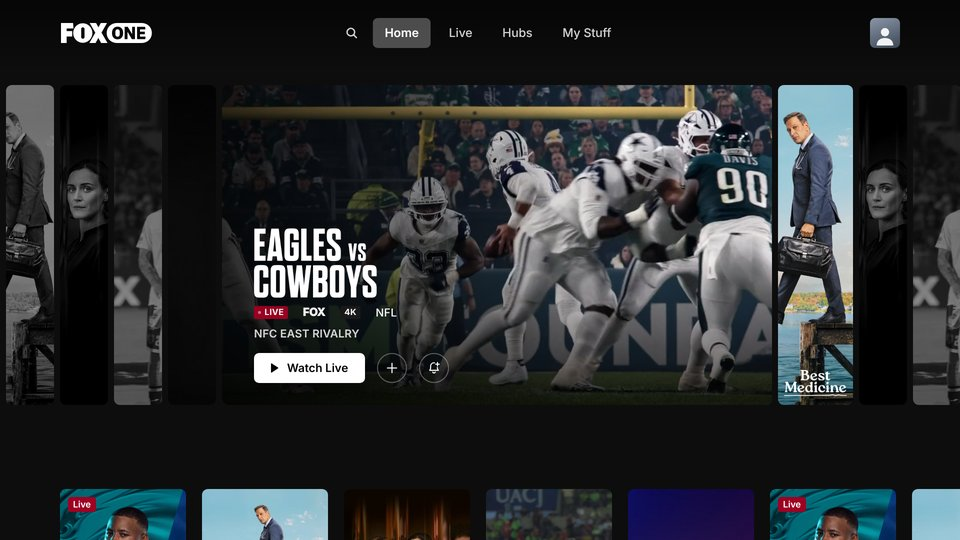
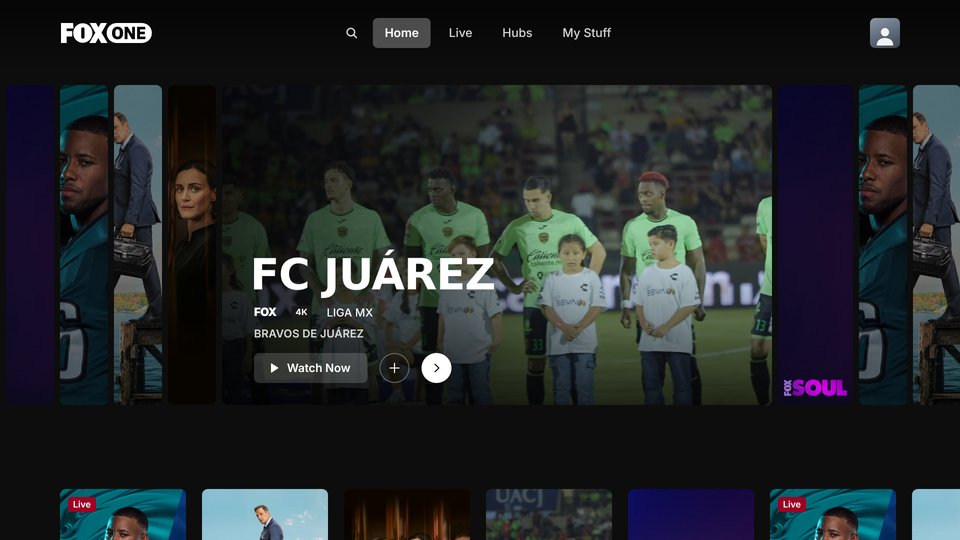
C13: chevron steps through titles with focus kept on it; slits in dimmed colour
The bell is replaced by a › button. OK on it opens the next title while
focus stays on it, so repeated presses scroll the shelf. The button row
now stays in place and only the title, meta and line swap. Side slits
keep full colour and are dimmed instead of greyed out.

Claude-Session: https://claude.ai/code/session_01FWkKVt7uaQAGvCvKhrAVNM

diff --git a/c13-slit-reel.html b/c13-slit-reel.html
@@ -6,7 +6,7 @@
 <link rel="stylesheet" href="shared/base.css">
 <style>
   /* A scrolling bookshelf of slits. The focused title is always open as a wide panel INSIDE the shelf,
-     with grey slits on both sides, so moving between titles is one short accordion step: the open panel
+     with dimmed slits on both sides, so moving between titles is one short accordion step: the open panel
      narrows back into a slit while the next slit widens into the panel and the shelf slides one place.
      It never leaves for full screen. The next title (right of the panel) shows in colour as the peek. */
   .stage { background: #0c0c0c; }
@@ -16,8 +16,8 @@
         transition: left .8s var(--ease-inout), width .8s var(--ease-inout), opacity .6s var(--ease-std); }
   .sl.new { opacity: 0; }
   .sl > img { position: absolute; inset: 0; width: 100%; height: 100%; object-fit: cover; object-position: var(--fx, 50%) 50%;
-              filter: grayscale(1) brightness(.6) contrast(1.06); transition: filter .8s var(--ease-inout); }
-  .sl.next > img, .sl.open > img { filter: none; }
+              filter: brightness(.55); transition: filter .8s var(--ease-inout); }
+  .sl.open > img { filter: none; }
   /* open panel: the title's video / key art fades in on top once it has opened */
   .sl .vid { position: absolute; inset: 0; opacity: 0; transition: opacity .7s var(--ease-std); }
   .sl .vid .art { position: absolute; inset: 0; }
@@ -33,19 +33,22 @@
   .sl.next .badge { opacity: 1; }
 
   /* Lockup sits inside the open panel */
-  .copy { position: absolute; z-index: 20; left: 508px; bottom: 314px; width: 900px; display: flex; flex-direction: column; align-items: flex-start;
+  .copy { position: absolute; z-index: 20; left: 508px; bottom: 400px; width: 900px; display: flex; flex-direction: column; align-items: flex-start;
           opacity: 0; transform: translateY(10px); transition: opacity .6s var(--ease-std), transform .7s var(--ease-out); }
   .copy.is-in { opacity: 1; transform: none; transition-delay: .35s; }
   .copy.out { opacity: 0; transform: none; transition: opacity .35s var(--ease-std); transition-delay: 0s; }
   .copy > * + * { margin-top: 16px; }
   .copy .logo img { max-width: 480px; max-height: 140px; }
-  .copy .ctas { margin-top: 26px !important; }
+  /* The button row stays put while titles change under it, so the chevron can be pressed again and again */
+  .row { position: absolute; z-index: 21; left: 508px; bottom: 314px; display: flex; }
+  .row .btn--primary span { transition: opacity .35s var(--ease-std); }
 </style>
 </head>
 <body>
 <div class="viewport"><div class="stage" id="stage">
   <div class="shelf" id="shelf"></div>
   <div id="copyHost"></div>
+  <div class="row" id="row"></div>
   <div class="grain"></div>
 </div></div>
 
@@ -56,8 +59,8 @@
 <script>
 const K = HeroKit.init({
   title: "C13 · Slit Reel",
-  notes: "A scrolling bookshelf of slits. The focused title is open as a wide panel inside the shelf, with grey slits on both sides; the next title, right of the panel, shows in colour as the peek. → past the last button is one short accordion step: the panel narrows into a slit, the next slit widens into the panel and the shelf slides one place. It never goes full screen and never auto-advances.",
-  extraKeys: [["→ past 🔔", "Next title opens in the shelf"]],
+  notes: "The bell is replaced by a › chevron: OK on it opens the next title and focus stays on it, so repeated OKs scroll quickly through the shelf. A scrolling bookshelf of full-colour slits, dimmed except the open one. The focused title is open as a wide panel inside the shelf, with slits on both sides; the next title's logo shows on the slit right of the panel as the peek. → past the last button is one short accordion step: the panel narrows into a slit, the next slit widens into the panel and the shelf slides one place. It never goes full screen and never auto-advances.",
+  extraKeys: [["OK on ›", "Next title, focus stays on ›"], ["→ past ›", "Next title, focus on Watch"]],
 });
 
 const N = K.data.length;
@@ -65,7 +68,7 @@ const shelf = document.getElementById("shelf"), copyHost = document.getElementBy
 const D = (v) => K.data[((v % N) + N) % N];
 const still = (d) => d.art.kind === "video" ? (d.art.still || d.art.poster) : d.art.src;
 
-/* Shelf geometry (stage px): grey slits 96 wide, the open panel 1100, the next (peek) slit 150 */
+/* Shelf geometry (stage px): dimmed slits 96 wide, the open panel 1100, the next (peek) slit 150 */
 const SW = 96, NW = 150, G = 12, PW = 1100, PX = 444, K_MIN = -5, K_MAX = 6;
 function geo(k) {                       // k = slot relative to the open title
   if (k === 0) return [PX, PW];
@@ -104,7 +107,7 @@ function layout(instant) {
 
 let openEl = null, liveT = 0;
 function open(vi) {
-  if (openEl) {                                         // the old panel drops its video and greys back into a slit
+  if (openEl) {                                         // the old panel drops its video and dims back into a slit
     const o = openEl; o.classList.remove("open", "live");
     setTimeout(() => { if (!o.classList.contains("open")) o.querySelector(".vid").innerHTML = ""; }, 800);
   }
@@ -115,7 +118,19 @@ function open(vi) {
   liveT = setTimeout(() => { el.classList.add("live"); K.syncVideos(el); }, 500);   // footage fades in as the panel finishes opening
 }
 
-let focus = null;
+/* Persistent button row: Watch · + · › (next). Only the Watch label changes per title. */
+K.ICONS.chevR = '<svg class="st" viewBox="0 0 24 24"><path d="M9.5 5.5 16 12l-6.5 6.5"/></svg>';
+const row = document.getElementById("row");
+row.innerHTML = `<div class="ctas"><span class="btn btn--primary">${K.ICONS.play}<span class="lbl"></span></span>
+  <span class="btn btn--round" title="My Stuff">${K.ICONS.plus}</span><span class="btn btn--round" title="Next">${K.ICONS.chevR}</span></div>`;
+const lbl = row.querySelector(".lbl");
+function setLabel(t) {
+  if (lbl.textContent === t) return;
+  if (!lbl.textContent) { lbl.textContent = t; return; }
+  lbl.style.opacity = 0; setTimeout(() => { lbl.textContent = t; lbl.style.opacity = 1; }, 300);
+}
+
+let focus = null, viaChev = false;
 function show(i, prev, dir = 1) {
   if (prev !== undefined) v += dir;
   layout(prev === undefined);
@@ -123,17 +138,25 @@ function show(i, prev, dir = 1) {
   const old = copyHost.querySelector(".copy:not(.out)");
   if (old) { old.classList.add("out"); setTimeout(() => old.remove(), 400); }
   const d = D(v);
-  copyHost.insertAdjacentHTML("beforeend", `<div class="copy">${K.ui.title(d)}${K.ui.metaRow(d)}${d.tagline ? `<div class="tagline">${d.tagline}</div>` : ""}${K.ui.ctas(d)}</div>`);
+  copyHost.insertAdjacentHTML("beforeend", `<div class="copy">${K.ui.title(d)}${K.ui.metaRow(d)}${d.tagline ? `<div class="tagline">${d.tagline}</div>` : ""}</div>`);
+  setLabel(d.ctas[0].label);
   const c = copyHost.lastElementChild; requestAnimationFrame(() => requestAnimationFrame(() => c.classList.add("is-in")));
-  focus && focus.refresh();
+  if (focus && !viaChev) focus.refresh();   // → past the chevron lands on Watch; OK on the chevron keeps focus on it
 }
 
+// OK on the chevron: next title, focus stays on the chevron
+K.onKey((e) => {
+  if (e.key !== "Enter" || K.zone !== "hero" || K.focus.cta !== 2) return false;
+  viaChev = true; K.rot.next(true); viaChev = false; K.focus.refresh();
+  return true;
+});
+
 K.rot = K.Rotator({
-  count: N, minGap: 500,
+  count: N, minGap: 300,
   durationFor: () => Infinity,          // stays on the current title until → past the last button
   onChange: (i, prev, dir) => show(i, prev, dir),
 });
-focus = HeroFocus.init(K, { ctas: () => [...copyHost.querySelectorAll(".copy:not(.out) .btn")] });
+focus = HeroFocus.init(K, { ctas: () => [...row.querySelectorAll(".btn")] });
 show(0);
 K.refreshHud && K.refreshHud();
 </script>

diff --git a/index.html b/index.html
@@ -168,7 +168,7 @@ const CONCEPTS = [
     tr: "1.25s streak sweep + smear resolve", tx: "Copy blurs out, lockup re-stages", best: "Sports and high-energy titles", cost: 2 },
   { f: "c12-signal-hue.html", th: "c12", t: "Signal Hue", tag: "Colour", d: "One vivid Nebula hue per title. The footage is pulled toward grey so the hue owns the frame, and everything on top of it speaks in that hue: a typeset serif title whose letters flip in from a mirror image, the badge, meta, line, CTAs and the next-title story card with its timer. The picture opens out of that card on advance.",
     tr: "1.05s open from the peek card · letter flips", tx: "Typeset title, all in one hue", best: "Giving each title its own colour identity", cost: 1 },
-  { f: "c13-slit-reel.html", th: "c13", t: "Slit Reel", tag: "Cinematic", d: "A scrolling bookshelf of grey slits. The focused title is open as a wide panel inside the shelf, never full screen, with slits on both sides. The next title waits in colour just right of the panel as the peek. Moving on is one short accordion step: the panel narrows back into a slit while the next one widens into its place.",
+  { f: "c13-slit-reel.html", th: "c13", t: "Slit Reel", tag: "Cinematic", d: "A scrolling bookshelf of full-colour slits, dimmed so the open title leads. The focused title is open as a wide panel inside the shelf, never full screen. The next title waits just right of the panel as the peek, and a › button beside Watch steps through titles while focus stays on it. Moving on is one short accordion step: the panel narrows back into a slit while the next one widens into its place.",
     tr: "0.8s accordion step · shelf slides one place", tx: "Lockup fades in place", best: "Browsing a set of premium titles", cost: 2 },
 ];
 const card = (o, thumb, num) => `
